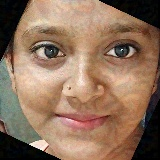
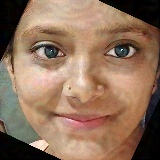
Updated perturbation optimizer

diff --git a/perturbation_optimizer.py b/perturbation_optimizer.py
@@ -1,17 +1,18 @@
 import torch
 import torch.nn.functional as F
 
-def identity_loss(adv_emb, orig_emb, target_emb):
+def identity_loss(adv_emb, orig_emb, margin=0.35):
 
     sim_orig = F.cosine_similarity(adv_emb, orig_emb)
-    sim_target = F.cosine_similarity(adv_emb, target_emb)
 
-    # Strong directional push
-    return (sim_orig - 3.5 * sim_target).mean()
+    # Only push if similarity is above margin
+    loss = F.relu(sim_orig - margin)
 
+    return loss.mean()
+   
 
 def optimize_perturbation(model, image_tensor, orig_emb, target_emb,
-                          steps=12, eps=12/255, alpha=3/255, device="cpu"):
+                          steps=30, eps=10/255, alpha=1/255, device="cpu"):
 
     adv = image_tensor.clone().detach().to(device).float()
 
@@ -30,13 +31,13 @@ def optimize_perturbation(model, image_tensor, orig_emb, target_emb,
 
         # ---- LOW FREQUENCY FILTER (important) ----
         # remove sharp pixel noise (patches)
-        grad = torch.nn.functional.avg_pool2d(grad, 7, 1, 3)
+        grad = torch.nn.functional.avg_pool2d(grad, 5, 1, 2)
 
         # normalize gradient strength
         grad = grad / (grad.abs().mean() + 1e-8)
 
         # smooth perturbation instead of pixel noise
-        adv = adv - alpha * grad
+        adv = adv - alpha * grad.sign()
 
         perturb = torch.clamp(adv - image_tensor, -eps, eps)
         adv = torch.clamp(image_tensor + perturb, 0, 1).detach()
